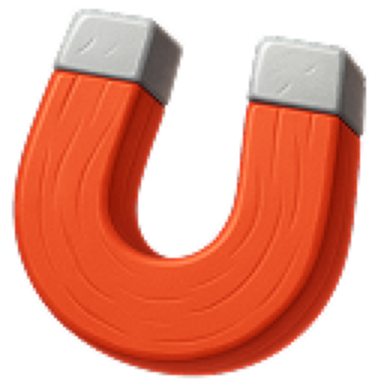
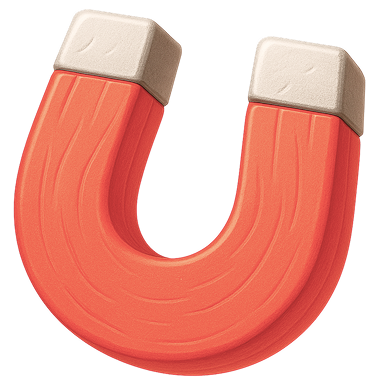
v210: haptics (TNT frames/outro, wild juice burst, magnet merge, board pop-in, FX) + wild-magnet art and backups
Made-with: Cursor

diff --git a/src/modules/wild-juice-bubbles-explosion.ts b/src/modules/wild-juice-bubbles-explosion.ts
@@ -40,6 +40,73 @@ let bubblyTimelinesRef: gsap.core.Timeline[] = [];
 let bubblyBounceTimelinesRef: gsap.core.Timeline[] = [];
 let bubblyFxCleanup: (() => void) | null = null;
 const lifecycle = createScreenLifecycle('wild-juice-bubbles-explosion');
+const WILD_JUICE_HAPTIC_INITIAL_COUNT = 6;
+const WILD_JUICE_HAPTIC_INITIAL_INTERVAL_MS = 50;
+const WILD_JUICE_HAPTIC_GLOBAL_START_DELAY_MS = 200;
+const WILD_JUICE_HAPTIC_FLOW_START_MS = 320;
+const WILD_JUICE_HAPTIC_FLOW_INTERVAL_MS = 180;
+const WILD_JUICE_HAPTIC_LATE_BURST_COUNT = 10;
+const WILD_JUICE_HAPTIC_LATE_BURST_INTERVAL_MS = 70;
+const WILD_JUICE_HAPTIC_TAIL_COUNT = 4;
+const WILD_JUICE_HAPTIC_TAIL_INTERVAL_MS = 140;
+const WILD_JUICE_HAPTIC_FINAL_TAIL_COUNT = 5;
+const WILD_JUICE_HAPTIC_FINAL_TAIL_INTERVAL_MS = 100;
+
+function scheduleHapticPulseTrain(startMs: number, count: number, intervalMs: number): void {
+  for (let i = 0; i < count; i++) {
+    lifecycle.trackTimeout(() => {
+      try {
+        (window as any).triggerHapticImpact?.('light');
+      } catch {}
+    }, Math.max(0, startMs + i * intervalMs));
+  }
+}
+
+function triggerWildJuiceHapticBurst(spawnDurationMs: number): void {
+  try {
+    const trigger = (window as any)?.triggerHapticImpact;
+    if (typeof trigger !== 'function') return;
+
+    const baseStartMs = WILD_JUICE_HAPTIC_GLOBAL_START_DELAY_MS;
+    const lateBurstStartMs = Math.max(0, Math.floor(spawnDurationMs * 0.75));
+
+    // Phase 1: initial visual burst (first 20 bubbles spawned instantly).
+    scheduleHapticPulseTrain(baseStartMs, WILD_JUICE_HAPTIC_INITIAL_COUNT, WILD_JUICE_HAPTIC_INITIAL_INTERVAL_MS);
+
+    // Phase 2: continuous bubble flow.
+    for (
+      let t = WILD_JUICE_HAPTIC_FLOW_START_MS;
+      t < lateBurstStartMs - 120;
+      t += WILD_JUICE_HAPTIC_FLOW_INTERVAL_MS
+    ) {
+      lifecycle.trackTimeout(() => {
+        try {
+          (window as any).triggerHapticImpact?.('light');
+        } catch {}
+      }, baseStartMs + t);
+    }
+
+    // Phase 3: late visual burst (+40 bubbles at 75% of spawn duration).
+    scheduleHapticPulseTrain(
+      baseStartMs + lateBurstStartMs,
+      WILD_JUICE_HAPTIC_LATE_BURST_COUNT,
+      WILD_JUICE_HAPTIC_LATE_BURST_INTERVAL_MS
+    );
+
+    // Phase 4: tail while bubbles finish drifting out.
+    const tailStartMs = baseStartMs + lateBurstStartMs + 900;
+    scheduleHapticPulseTrain(tailStartMs, WILD_JUICE_HAPTIC_TAIL_COUNT, WILD_JUICE_HAPTIC_TAIL_INTERVAL_MS);
+
+    // Phase 5: final ending pulses at the very end.
+    const finalTailStartMs =
+      tailStartMs + (WILD_JUICE_HAPTIC_TAIL_COUNT * WILD_JUICE_HAPTIC_TAIL_INTERVAL_MS);
+    scheduleHapticPulseTrain(
+      finalTailStartMs,
+      WILD_JUICE_HAPTIC_FINAL_TAIL_COUNT,
+      WILD_JUICE_HAPTIC_FINAL_TAIL_INTERVAL_MS
+    );
+  } catch {}
+}
 
 function getFxHost(stage: any): any {
   if (!stage || stage.destroyed) return null;
@@ -377,6 +444,7 @@ async function showWildJuiceBubblesExplosionInternal(): Promise<void> {
   const maxActive = 60;
   const maxBubbleDurationMs = 2100; // 1.1–2.1s
   const safetyTimeoutMs = spawnDuration + maxBubbleDurationMs + 1800; // extra for 70% more bubbles
+  triggerWildJuiceHapticBurst(spawnDuration);
   let active = 0;
   let spawned = 0;
   const perMs = totalBubbles / spawnDuration;

diff --git a/src/modules/tnt-animation.ts b/src/modules/tnt-animation.ts
@@ -105,6 +105,43 @@ let pooledFrameContainer: Container | null = null;
 const trackTimeline = (opts?: gsap.TimelineVars) => animationManager.trackExternalTimeline(gsap.timeline(opts));
 const trackDelayedCall = (...args: Parameters<typeof gsap.delayedCall>) =>
   animationManager.trackExternalTween(gsap.delayedCall(...args));
+const triggerTntFrameHaptic = (frameIndex: number) => {
+  try {
+    const w = window as any;
+    if (typeof w?.triggerHapticImpact !== 'function') return;
+    const kind = (frameIndex === 5 || frameIndex === 11) ? 'medium' : 'light';
+    w.triggerHapticImpact(kind);
+  } catch {}
+};
+const triggerTntOutroHaptics = () => {
+  try {
+    const w = window as any;
+    if (typeof w?.triggerHapticImpact !== 'function') return;
+    // Outro build-up right before TNT bonus board break phase.
+    const firstWave: Array<{ delay: number; kind: 'light' | 'medium' }> = [
+      { delay: 0, kind: 'medium' },
+      { delay: 70, kind: 'light' },
+      { delay: 140, kind: 'light' },
+      { delay: 210, kind: 'medium' },
+    ];
+    const secondWavePauseMs = 800;
+    const secondWaveIntervalMs = 100;
+    const secondWaveStartMs = firstWave[firstWave.length - 1].delay + secondWavePauseMs;
+    const secondWave: Array<{ delay: number; kind: 'light' | 'medium' }> = [
+      { delay: secondWaveStartMs + 0 * secondWaveIntervalMs, kind: 'medium' },
+      { delay: secondWaveStartMs + 1 * secondWaveIntervalMs, kind: 'light' },
+      { delay: secondWaveStartMs + 2 * secondWaveIntervalMs, kind: 'light' },
+      { delay: secondWaveStartMs + 3 * secondWaveIntervalMs, kind: 'medium' },
+    ];
+    const pulses = [...firstWave, ...secondWave];
+    pulses.forEach(({ delay, kind }) => {
+      const h = trackDelayedCall(delay / 1000, () => {
+        try { w.triggerHapticImpact(kind); } catch {}
+      });
+      if (h) memSampleCallsRef.push(h as any);
+    });
+  } catch {}
+};
 let memorySpikeTrackerPromise: Promise<any | null> | null = null;
 function loadMemorySpikeTracker(): Promise<any | null> {
   if (!memorySpikeTrackerPromise) {
@@ -375,6 +412,7 @@ const EXIT_FADE_DURATION = 0.17;
 const HOLD_AT_FRAME_6 = 0.3;
 const SPRITE_EXTRA_DURATION = 0.3;
 const SPRITE_EXIT_STAGGER = 0.04;
+const TNT_HAPTIC_START_DELAY_MS = 200;
 const BOOM_ENTER_DELAY = 0.3;
 const BOOM_ENTER_STAGGER = 0.05;
 const BOOM_EXIT_STAGGER = 0.06;
@@ -587,6 +625,9 @@ export function showTntAnimation(options: {
 
     const tl = trackTimeline({ delay: enterDelay });
     extraTimelines.push(tl);
+    // Sync one haptic pulse with each sprite frame reveal.
+    const frameHaptic = trackDelayedCall(enterDelay + (TNT_HAPTIC_START_DELAY_MS / 1000), () => triggerTntFrameHaptic(i));
+    if (frameHaptic) memSampleCallsRef.push(frameHaptic as any);
     tl.to(frameEl, {
       alpha: 1,
       duration: dEnter,
@@ -697,6 +738,7 @@ export function showTntAnimation(options: {
   const startBoomExit = () => {
     if (boomExitStarted) return;
     boomExitStarted = true;
+    triggerTntOutroHaptics();
     try { onBoomExitStart?.(); } catch {}
     boomBounceTimelines.forEach((tl) => {
       try { tl.kill(); } catch {}

diff --git a/src/modules/app-board.ts b/src/modules/app-board.ts
@@ -15,6 +15,7 @@ const trackDelayedCall = (...args: Parameters<typeof gsap.delayedCall>) =>
 interface SweetPopOptions {
   onHalf?: () => void;
 }
+const ENTRY_POPIN_HAPTIC_START_DELAY_MS = 200;
 
 // reset container while preserving boardBG and backgroundLayer
 export function resetBoardContainer(): void {
@@ -116,6 +117,8 @@ export function rebuildBoard(): void {
 // Fun bouncy animation with smart optimization
 export function sweetPopIn(listTiles: Tile[], opts: SweetPopOptions = {}): Promise<void> {
   const list = [...listTiles];
+  const isLoadPopInHaptics = (window as any).__ccLoadPopInHapticPerTile === true;
+  const isEntryPopInHaptics = (window as any).__ccEnterAnimationActive === true;
 
   // FULL random order — no spatial pattern
   for (let i = list.length - 1; i > 0; i--) {
@@ -160,6 +163,16 @@ export function sweetPopIn(listTiles: Tile[], opts: SweetPopOptions = {}): Promi
       // Povremeni "burst" – dio kockica krene ranije
       const burst = (Math.random() < 0.22) ? (-Math.random() * 0.16) : 0; // do -160ms
       const enterDel = Math.max(0, (i * step * rate) + Math.random() * jitterMax + burst);
+
+      const shouldTriggerPopInHaptic =
+        isLoadPopInHaptics || (isEntryPopInHaptics && i % 2 === 0);
+      if (shouldTriggerPopInHaptic && typeof (window as any).triggerHapticImpact === 'function') {
+        const hapticDelay = enterDel + (isEntryPopInHaptics ? ENTRY_POPIN_HAPTIC_START_DELAY_MS / 1000 : 0);
+        const hapticCall = trackDelayedCall(hapticDelay, () => {
+          try { (window as any).triggerHapticImpact?.('light'); } catch {}
+        });
+        activeDelayedCalls.push(hapticCall);
+      }
 
       // Trajanja uvijek brza, s blagom varijacijom
       const durMul = 0.55 + Math.random() * 0.20; // 0.55–0.75

diff --git a/src/modules/app-merge.ts b/src/modules/app-merge.ts
@@ -58,6 +58,23 @@ const animateScore = (toValue, duration = 0.45) => {
   }
 };
 
+function triggerMagnetQuickHapticBurst(count = 4, intervalMs = 50): void {
+  try {
+    if (typeof (window as any).triggerHapticImpact !== 'function') return;
+    const lastTwoStart = Math.max(0, count - 2);
+    for (let i = 0; i < count; i++) {
+      const isLastTwo = i >= lastTwoStart;
+      const delay = i * intervalMs + (isLastTwo ? 50 : 0);
+      const strength: 'light' | 'medium' = isLastTwo ? 'medium' : 'light';
+      trackAppTimeout(() => {
+        try {
+          (window as any).triggerHapticImpact?.(strength);
+        } catch {}
+      }, delay);
+    }
+  } catch {}
+}
+
 function triggerCentralEndgameCheck(source = 'app-merge'): boolean {
   const checker = (window as any)?.CC?.checkLevelEnd;
   if (typeof checker !== 'function') return false;
@@ -1122,12 +1139,10 @@ async function mergePulledTilesIntoMerge6(dst: any, tiles: any[], helpers: any):
   
   console.log('✅ mergePulledTilesIntoMerge6 completed - score updated to', newScore, 'combo updated to', newCombo);
 
-  if (pulledTileCount >= 4 && typeof (window as any).triggerHapticImpact === 'function') {
-    try {
-      (window as any).triggerHapticImpact('medium');
-    } catch (error) {
-      console.warn('⚠ Failed to trigger haptic for pulled tiles merge:', error);
-    }
+  if (pulledTileCount > 0) {
+    // Burst scales with pull size: 1..4 quick taps for 1..4 pulled tiles.
+    const burstCount = Math.max(1, Math.min(4, pulledTileCount | 0));
+    triggerMagnetQuickHapticBurst(burstCount, 50);
   }
 
   // 🔥 CRITICAL: Check if magnet merge 6 is left with few tiles (3 or less) - if so, pull remaining tiles and trigger clean board

diff --git a/src/modules/app-core.ts b/src/modules/app-core.ts
@@ -5256,8 +5256,11 @@ function merge(src: Tile, dst: Tile, helpers: MergeHelpers){
     
     // Haptic feedback for merge 6
     if (typeof (window as any).triggerHapticImpact === 'function') {
-      if (wildActive) {
-        // Wild merge 6 = Double HEAVY for longer feel
+      const isWildTntMergeHaptic = srcSpecial === 'wild-tnt' || dstSpecial === 'wild-tnt';
+      if (isWildTntMergeHaptic) {
+        // Wild-TNT haptics are now driven from tnt-animation.ts per sprite frame.
+      } else if (wildActive) {
+        // Other wild merge 6 = Double HEAVY for longer feel
         (window as any).triggerHapticImpact('heavy');
         trackAppTimeout(() => {
           (window as any).triggerHapticImpact('heavy');
@@ -11227,15 +11230,6 @@ async function loadGameState(overrideBoardNumber?: number) {
           isHudDropPending: () => _hudDropPending,
           setHudDropPending: (v) => { _hudDropPending = v; },
         });
-        // 🔥 UX: Stronger haptic on mid pop-in (double heavy tap) for load/continue path
-        try {
-          if (typeof (window as any).triggerHapticImpact === 'function') {
-            (window as any).triggerHapticImpact('heavy');
-            trackAppTimeout(() => {
-              try { (window as any).triggerHapticImpact?.('heavy'); } catch {}
-            }, 300);
-          }
-        } catch {}
       },
       onComplete: () => {
         // 🔥 CRITICAL FIX: Final check - ensure HUD is visible and positioned after animation

diff --git a/src/modules/app-core-load-popin.ts b/src/modules/app-core-load-popin.ts
@@ -28,13 +28,20 @@ export function playLoadPopInAnimation({
   // Hide all tiles before animation
   tiles.forEach(t => { if (t) t.visible = false; });
 
+  // Enable per-tile haptics only for load/continue pop-in flow.
+  (window as any).__ccLoadPopInHapticPerTile = true;
+
   // Play same sweetPopIn animation as new game
   sweetPopIn(tiles, { onHalf }).then(() => {
+    delete (window as any).__ccLoadPopInHapticPerTile;
     (window as any).__ccEnterAnimationActive = false;
     if (typeof (window as any).updateGhostVisibility === 'function') {
       (window as any).updateGhostVisibility();
     }
     devLog('✅ Continue animation completed');
     onComplete();
+  }).catch((error) => {
+    delete (window as any).__ccLoadPopInHapticPerTile;
+    devLog('⚠ Continue animation failed:', error);
   });
 }

diff --git a/src/modules/fx.ts b/src/modules/fx.ts
@@ -4614,6 +4614,11 @@ export async function animateStarsToHudIcon(board, stage, savedStarPositions, sa
           // 🔥 CRITICAL: Add star count - this triggers bounce via queue system (sequential, no overlap)
           // Only ONE call to addStars per star (removed duplicate)
           try {
+            try {
+              if (typeof (window as any)?.triggerHapticImpact === 'function') {
+                (window as any).triggerHapticImpact('light');
+              }
+            } catch {}
             if (typeof window !== 'undefined' && window.CC && typeof window.CC.addStars === 'function') {
               window.CC.addStars(1);
             } else {
